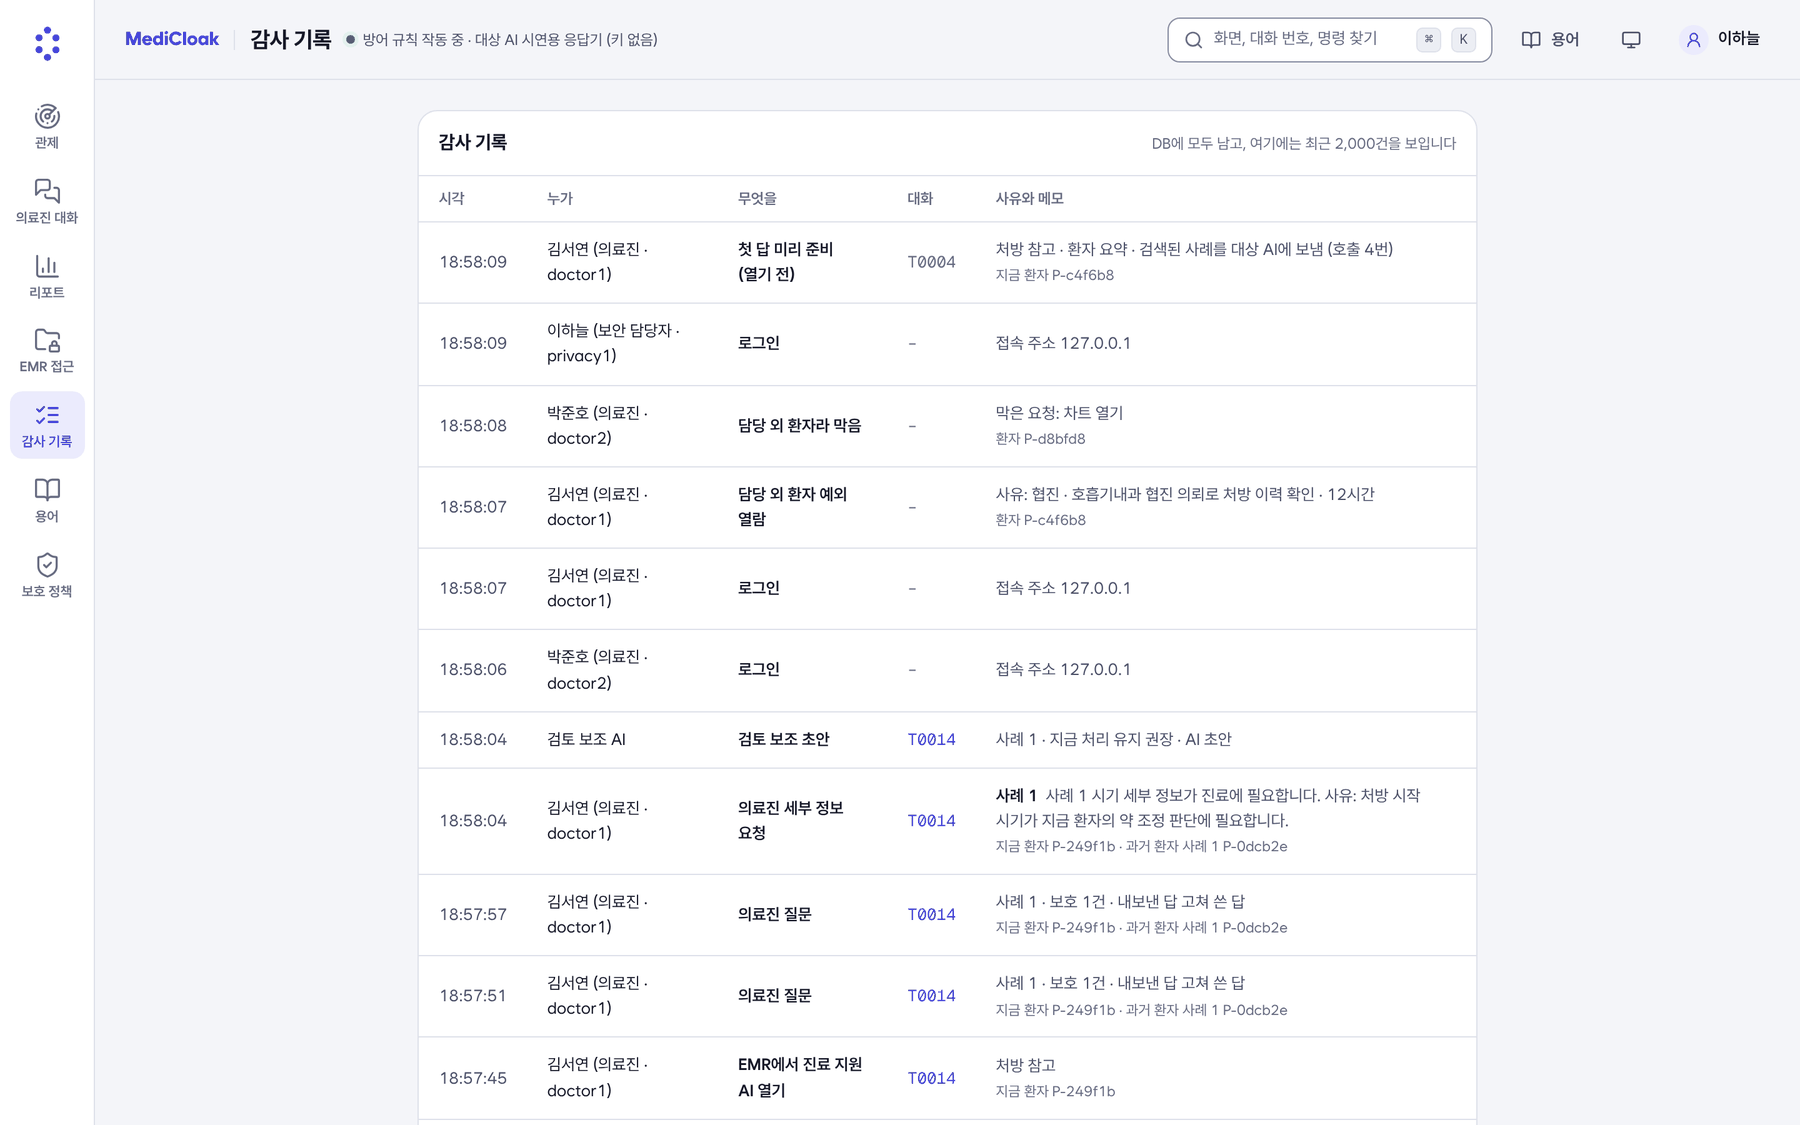
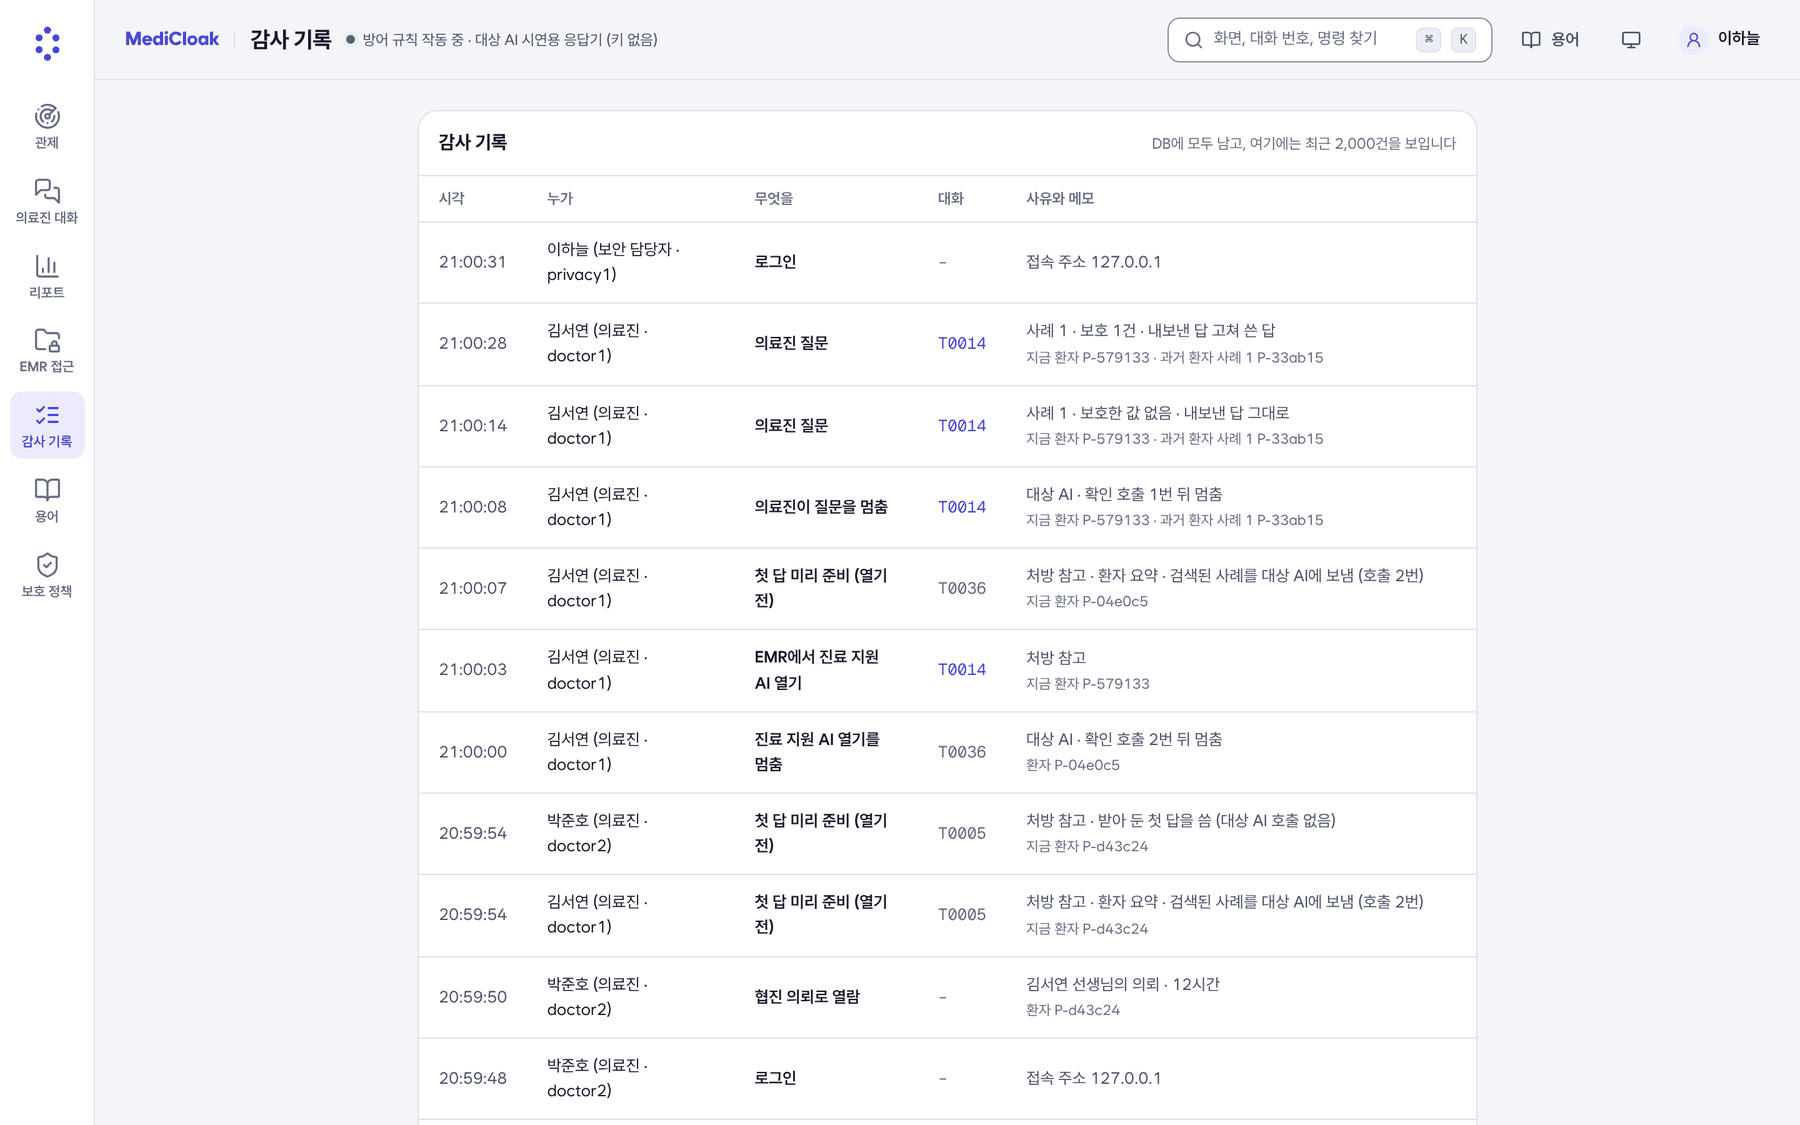
DOCS#N: README에 협진 의뢰 · 등록번호 · 보호 표시 설명 · 멈추기를 반영하고 화면 캡처를 다시 찍음
- README 주요 기능: 내 담당 환자(등록번호 · 내원 흐름 · 따로 스크롤), 협진 의뢰 · 담당 외 환자 열기(새 화면 screen-consult.png), 유사 사례 조회(표시를 누르면 설명 · 사례마다 바뀐 항목 · 단계 진행 · 멈추기), EMR 접근 관리(협진 의뢰 검토). 보안 설계의 '담당 환자만 열기'에 협진 의뢰 · 등록번호를 더했다.
- 배지 · 숫자: pytest 994 · vitest 96, ADR 37건. 한눈에 보기 캡션과 캡처 조건(입력 게이팅을 켜면 'AI에 보내지 않음')을 고쳤다.
- medicloak/README: --extract-parallel, --break-glass off와 협진 의뢰, 협진 의뢰 · 멈추기 API, 화면 흐름(협진 의뢰 · 등록번호 · 내원 흐름 · 종료일 없음 · 단계 진행 · 보호 표시 설명 · 말투), 동작 규칙, ADR-0035~0037 링크.
- frontend/README: ConsultDialog · StageTrack · 보호 표시 설명 창 · ChangeMap.
- 화면 캡처 다시 찍음: screen-emr · screen-clinic · screen-emr-access · screen-audit, 새로 screen-consult (시연용 응답기, 1800×1125).

Claude-Session: https://claude.ai/code/session_01J5RXHyY7Av7VSHZ3RBymGy

diff --git a/frontend/README.md b/frontend/README.md
@@ -54,7 +54,7 @@ src/
   components/
     layout/   AppLayout(역할별 틀), ClinicianShell(EMR 머리줄), TopBar · CommandPalette(관제), ProtectionBadge
     clinic/   PatientBanner('지금 보는 환자' 띠), EmrCaseList, ClinicalChat, ClinicalMessage, ClinicValue(범위 · 비공개), CaseNotePanel
-    emr/      ChartSummary(차트 요약), SimilarCaseBox(유사 사례 찾기 · 진료 지원 AI 열기), BreakGlassDialog(담당 외 환자 열기)
+    emr/      ChartSummary(차트 요약 · 내원 흐름), SimilarCaseBox(유사 사례 찾기 · 진료 지원 AI 열기 · 멈추기), ConsultDialog(협진 의뢰 보내기), BreakGlassDialog(담당 외 환자 열기, 등록번호)
     chat/     ChatMessage, PrivacyHighlight, PrivacyExplanation (관제 쪽 숫자 있는 대화), ChatInput
     graph/    ClueGraph
     monitor/  QueueTable, SessionDetail(메시지 · 단서 그래프 · 질문 흐름), RevealDialog
@@ -123,6 +123,8 @@ Mock이 알아듣는 질문 (키워드 규칙, `mockData.ts`의 `QI_PATTERNS`·`
 - 의료진 화면 API는 후보 수 · 기준값을 null로 보낸다(타입 `number | null`). 의료진 화면은 원래 숫자를 그리지 않았다.
 - 보안 담당자 '의료진 대화'(`/watch`)는 대화를 골라 `createHttpApi('/api/watch/{대화}')`로 같은 계약을 숫자와 함께 받는다(안쪽 `WorkspaceProvider`). 의료진 화면 상태(`WorkspaceProvider`)는 의료진 틀 안에서만 만든다.
 - 보호 정책(`/policy`)은 `/api/monitor/policy`에서 받는다.
-- 내 담당 환자(`/emr`, `/emr/{환자 id}`, 운영 모드 의료진만): `src/api/emrApi.ts`가 `/api/emr/worklist` · `/api/emr/chart` · `/api/emr/break-glass` · `/api/emr/launch`를 부른다. 왼쪽 목록 → 가운데 차트 요약 → 오른쪽 유사 사례 찾기 순서이고, 이 화면에서는 '지금 보는 환자' 띠를 숨긴다(ADR-0034). FHIR(`/fhir/…`)는 EMR 연동 API로 남아 있고, 개발 서버도 `/fhir`를 8000번으로 넘긴다(`vite.config.ts`).
+- 내 담당 환자(`/emr`, `/emr/{환자 id}`, 운영 모드 의료진만): `src/api/emrApi.ts`가 `/api/emr/worklist` · `/api/emr/chart` · `/api/emr/consults` · `/api/emr/break-glass` · `/api/emr/launch`를 부른다. 왼쪽 목록(맨 위 받은 협진 의뢰) → 가운데 차트 요약 → 오른쪽 유사 사례 찾기 순서이고, 넓은 화면에서는 차트와 유사 사례 찾기가 따로 스크롤된다. 이 화면에서는 '지금 보는 환자' 띠를 숨긴다(ADR-0034 · ADR-0036).
+- 기다리는 동안: `components/common/StageTrack.tsx`가 진행 API의 `step`을 막대 셋(답 쓰기 → 보호 기준 확인 → 필요하면 고쳐 쓰기)으로 보인다. 걸린 초는 보이지 않는다. 멈추기는 `emrApi.stopQuestion` · `stopLaunch`이고, 질문이 409(`stopped`)로 끝나면 `send/stopped`가 보낸 질문을 지우고 입력칸에 되돌린다(ADR-0035).
+- 보호 표시: `ClinicValue`의 '비공개' · '범위'는 단추이고 누르면 설명 창(화면 기준 fixed)이 뜬다. 답 아래 `ChangeMap`이 사례마다 가리고 넓힌 항목을 보인다(ADR-0037). FHIR(`/fhir/…`)는 EMR 연동 API로 남아 있고, 개발 서버도 `/fhir`를 8000번으로 넘긴다(`vite.config.ts`).
 - EMR 접근(`/emr-access`, 운영 모드 보안 담당자만): `/api/monitor/emr`로 환자 기호 · 담당 · 접근 기록 · 예외 열람을 받고, 차트는 `RevealDialog`로 사유를 적어 연다.
 5. 백엔드 쪽 대응 관계: `PrivacyAction`은 `medical/defense.py`의 allow · generalize · suppress, `ProtectionPolicy.minK/suppressK`는 `generalize_threshold/suppress_threshold`, `arm`은 C0 · C1 · C1S.
